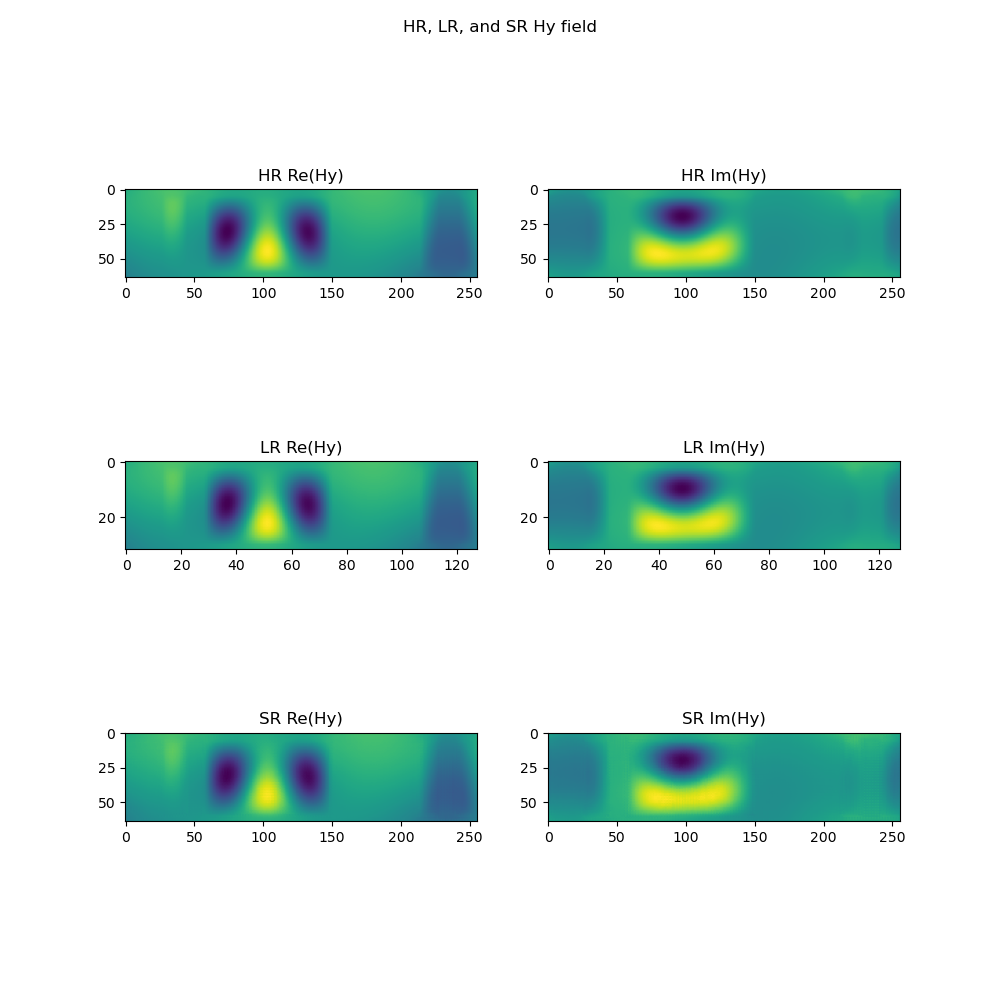
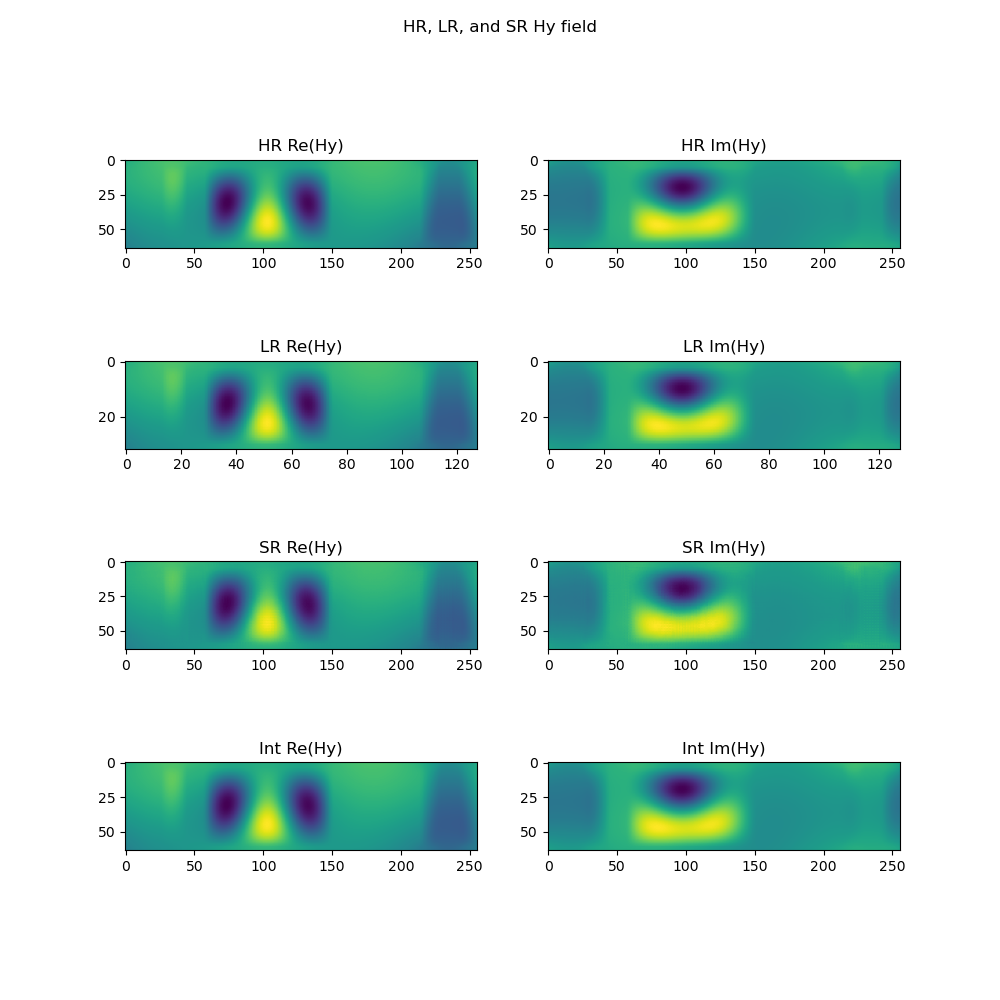
changes to plotting

diff --git a/evaluate.py b/evaluate.py
@@ -8,18 +8,21 @@ import torch
 from utils import plot_hr_lr_sr
 
 
-def predict(input_im, scaling=2):
+def predictWithInterpolation(input_im, scaling=2):
     return scipy.ndimage.zoom(input_im, (1, scaling, scaling), order=1)
 
 
 if __name__ == '__main__':
+    exnum = 1 # example to be plotted
+    model = "model1.pth" # SR model to be used
 
     # Interpolated data
     data = loader.MetaGratingDataLoader(return_hres=True, n_samp_pts=0)
-    hr_im, lr_im = data[29999]
-    pred_hr_im = predict(lr_im)
-    # PLT
-    # plt.imshow(pred_hr_im[0])
+    hr_im, lr_im = data[exnum]
+    pred_hr_im = predictWithInterpolation(lr_im)[1:3,:,:] # Slice to keep Real and Imaginary interpolated fields
+    # print(pred_hr_im.shape)
+    # # PLT
+    # plt.imshow(pred_hr_im[2])
     # plt.colorbar()
     # plt.show()
 
@@ -28,9 +31,6 @@ if __name__ == '__main__':
     # print(np.max(pred_hr_im))
 
     # Predicted data by model
-    # python predict.py -e 1 -m model1.pth
-    exnum = 1
-    model = "model1.pth"
     hr_img, lr_img = loader.MetaGratingDataLoader(return_hres=True, n_samp_pts=0)[int(exnum)]
     net = jnet.JNet(im_dim=(64, 256), static_channels=1, dynamic_channels=2)
     device = torch.device('cuda' if torch.cuda.is_available() else 'cpu')
@@ -38,7 +38,9 @@ if __name__ == '__main__':
     state_dict = torch.load(model, map_location=device)
     net.load_state_dict(state_dict)
     sr_img = predict_img(net=net, lr_img=lr_img, device=device) # must first open a data file and read it into a numpy array
-    plot_hr_lr_sr(hr_img, lr_img, sr_img)
+    print(sr_img.shape)
+
+    plot_hr_lr_sr(hr_img, lr_img, sr_img,pred_hr_im)
     
 
 #     import torch

diff --git a/utils.py b/utils.py
@@ -12,7 +12,7 @@ def plot_hr_lr_sr(hr_data, lr_data, sr_data, int_data=None):
         Note: the 3 channels are permitivities and the Re and Im parts of the 
         Hy field.
     """
-    if not int_data:
+    if int_data is None:
         num_rows = 3
     else:
         num_rows = 4
@@ -31,7 +31,7 @@ def plot_hr_lr_sr(hr_data, lr_data, sr_data, int_data=None):
     axs[2, 0].set_title('SR Re(Hy)')
     axs[2, 1].imshow(sr_data[1, :, :])
     axs[2, 1].set_title('SR Im(Hy)')
-    if int_data:
+    if int_data is not None:
         axs[3, 0].imshow(int_data[0, :, :])
         axs[3, 0].set_title('Int Re(Hy)')
         axs[3, 1].imshow(int_data[1, :, :])
